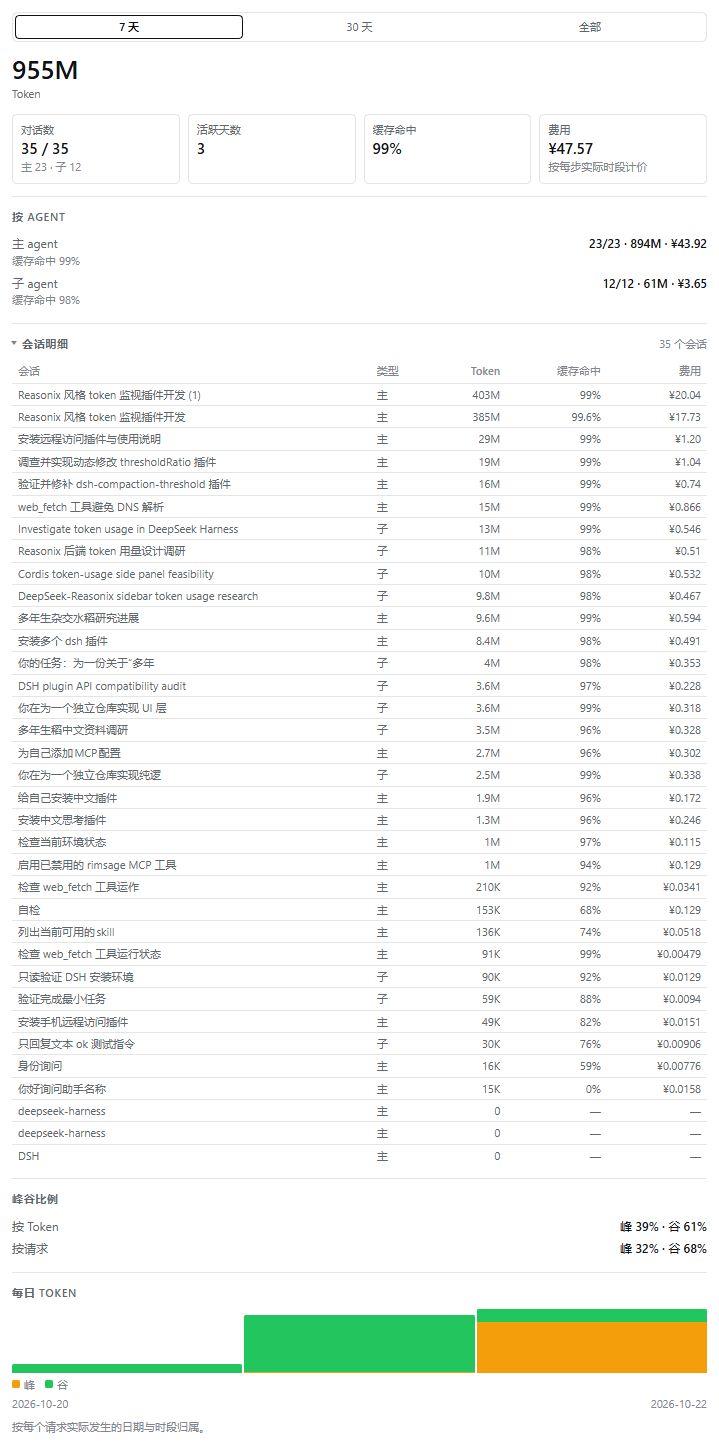
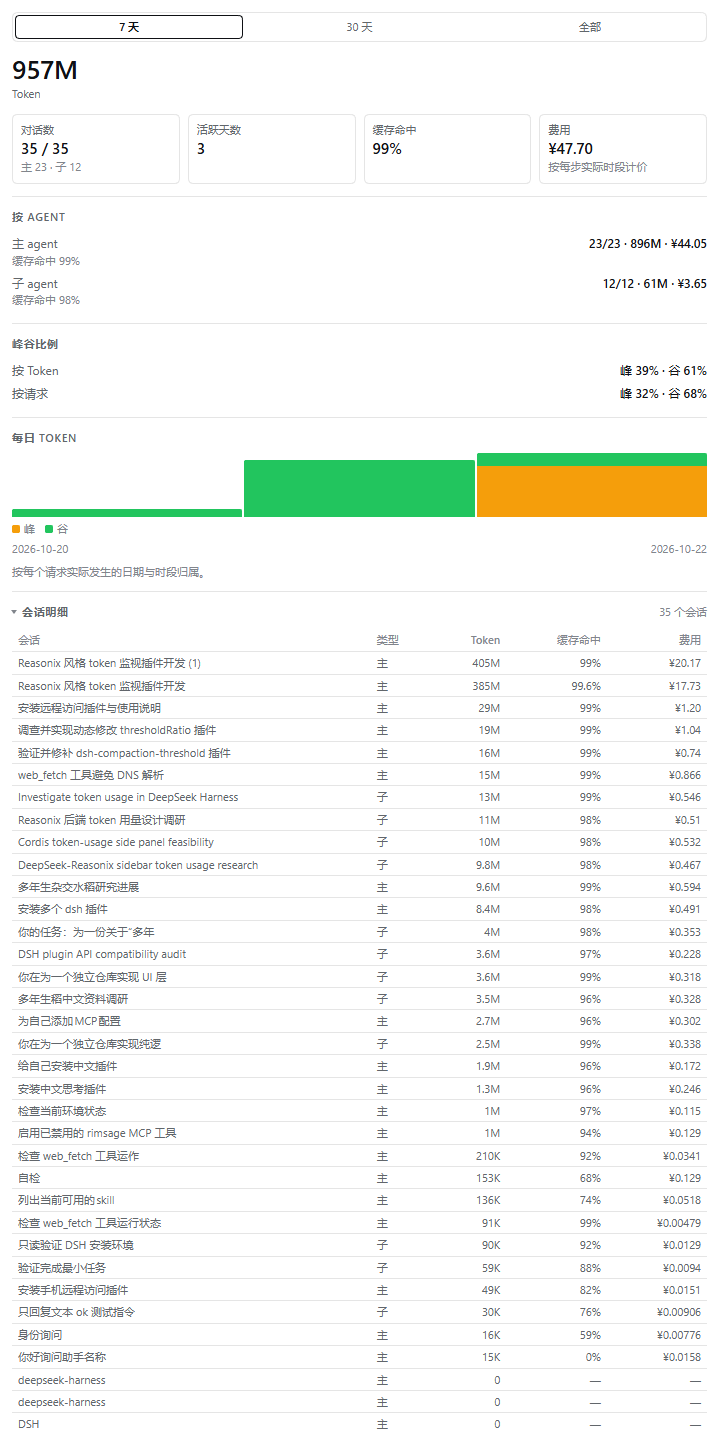
fix: move the session detail table to the bottom of the history panel

diff --git a/dist/client.js b/dist/client.js
@@ -1,4 +1,4 @@
-/* dsh-usage-insights v0.12.0 — generated by scripts/build.mjs; do not edit. */
+/* dsh-usage-insights v0.12.1 — generated by scripts/build.mjs; do not edit. */
 window.__ModuleLoader__.load({
   id: "dsh-usage-insights",
   factory(require) {
@@ -2333,6 +2333,17 @@ function HistoryPanel(props) {
           }
         )
       ] }) }),
+      view.bandShare !== null && /* @__PURE__ */ (0, import_jsx_runtime3.jsxs)(Section, { title: t("section.bands"), children: [
+        /* @__PURE__ */ (0, import_jsx_runtime3.jsxs)("div", { className: "dsu-rows", children: [
+          /* @__PURE__ */ (0, import_jsx_runtime3.jsx)(Row, { label: t("band.byTokens"), value: bandShareText(view.bandShare, t, "tokens") }),
+          /* @__PURE__ */ (0, import_jsx_runtime3.jsx)(Row, { label: t("band.byRequests"), value: bandShareText(view.bandShare, t, "requests") })
+        ] }),
+        view.bandSharePartial && /* @__PURE__ */ (0, import_jsx_runtime3.jsx)("div", { className: "dsu-note", children: t("band.partial") })
+      ] }),
+      /* @__PURE__ */ (0, import_jsx_runtime3.jsxs)(Section, { title: t("history.daily"), children: [
+        /* @__PURE__ */ (0, import_jsx_runtime3.jsx)(DailyBars, { days: view.days, t }),
+        /* @__PURE__ */ (0, import_jsx_runtime3.jsx)("div", { className: "dsu-note", children: view.costBasis === "bands" ? t("history.daily.bandsNote") : t("history.daily.note") })
+      ] }),
       view.sessions.length > 0 && /* @__PURE__ */ (0, import_jsx_runtime3.jsxs)("details", { className: "dsu-steps-details", children: [
         /* @__PURE__ */ (0, import_jsx_runtime3.jsxs)("summary", { className: "dsu-steps-summary", children: [
           /* @__PURE__ */ (0, import_jsx_runtime3.jsx)("span", { className: "dsu-chevron", "aria-hidden": "true" }),
@@ -2355,17 +2366,6 @@ function HistoryPanel(props) {
             /* @__PURE__ */ (0, import_jsx_runtime3.jsx)("td", { className: "dsu-num", children: row.cost === null ? "\u2014" : formatMoneyRange(row.cost.amountMicros, row.cost.amountMicrosMax, row.cost.currency) })
           ] }, row.id)) })
         ] }) }) })
-      ] }),
-      view.bandShare !== null && /* @__PURE__ */ (0, import_jsx_runtime3.jsxs)(Section, { title: t("section.bands"), children: [
-        /* @__PURE__ */ (0, import_jsx_runtime3.jsxs)("div", { className: "dsu-rows", children: [
-          /* @__PURE__ */ (0, import_jsx_runtime3.jsx)(Row, { label: t("band.byTokens"), value: bandShareText(view.bandShare, t, "tokens") }),
-          /* @__PURE__ */ (0, import_jsx_runtime3.jsx)(Row, { label: t("band.byRequests"), value: bandShareText(view.bandShare, t, "requests") })
-        ] }),
-        view.bandSharePartial && /* @__PURE__ */ (0, import_jsx_runtime3.jsx)("div", { className: "dsu-note", children: t("band.partial") })
-      ] }),
-      /* @__PURE__ */ (0, import_jsx_runtime3.jsxs)(Section, { title: t("history.daily"), children: [
-        /* @__PURE__ */ (0, import_jsx_runtime3.jsx)(DailyBars, { days: view.days, t }),
-        /* @__PURE__ */ (0, import_jsx_runtime3.jsx)("div", { className: "dsu-note", children: view.costBasis === "bands" ? t("history.daily.bandsNote") : t("history.daily.note") })
       ] }),
       view.missingCount + view.fallbackCount > 0 && /* @__PURE__ */ (0, import_jsx_runtime3.jsx)(InlineMessage, { tone: "warn", children: /* @__PURE__ */ (0, import_jsx_runtime3.jsxs)("div", { className: "dsu-inline-action", children: [
         /* @__PURE__ */ (0, import_jsx_runtime3.jsx)("span", { children: view.missingCount > 0 ? t("history.missing", { n: view.missingCount }) : t("history.missingBands", { n: view.fallbackCount }) }),

diff --git a/src/client/HistoryPanel.tsx b/src/client/HistoryPanel.tsx
@@ -125,6 +125,21 @@ export function HistoryPanel(props: HistoryPanelProps): JSX.Element {
               />
             </div>
           </Section>
+          {view.bandShare !== null && (
+            <Section title={t('section.bands')}>
+              <div className="dsu-rows">
+                <Row label={t('band.byTokens')} value={bandShareText(view.bandShare, t, 'tokens')} />
+                <Row label={t('band.byRequests')} value={bandShareText(view.bandShare, t, 'requests')} />
+              </div>
+              {view.bandSharePartial && <div className="dsu-note">{t('band.partial')}</div>}
+            </Section>
+          )}
+          <Section title={t('history.daily')}>
+            <DailyBars days={view.days} t={t} />
+            <div className="dsu-note">
+              {view.costBasis === 'bands' ? t('history.daily.bandsNote') : t('history.daily.note')}
+            </div>
+          </Section>
           {view.sessions.length > 0 && (
             <details className="dsu-steps-details">
               <summary className="dsu-steps-summary">
@@ -166,21 +181,6 @@ export function HistoryPanel(props: HistoryPanelProps): JSX.Element {
               </div>
             </details>
           )}
-          {view.bandShare !== null && (
-            <Section title={t('section.bands')}>
-              <div className="dsu-rows">
-                <Row label={t('band.byTokens')} value={bandShareText(view.bandShare, t, 'tokens')} />
-                <Row label={t('band.byRequests')} value={bandShareText(view.bandShare, t, 'requests')} />
-              </div>
-              {view.bandSharePartial && <div className="dsu-note">{t('band.partial')}</div>}
-            </Section>
-          )}
-          <Section title={t('history.daily')}>
-            <DailyBars days={view.days} t={t} />
-            <div className="dsu-note">
-              {view.costBasis === 'bands' ? t('history.daily.bandsNote') : t('history.daily.note')}
-            </div>
-          </Section>
           {view.missingCount + view.fallbackCount > 0 && (
             <InlineMessage tone="warn">
               <div className="dsu-inline-action">
